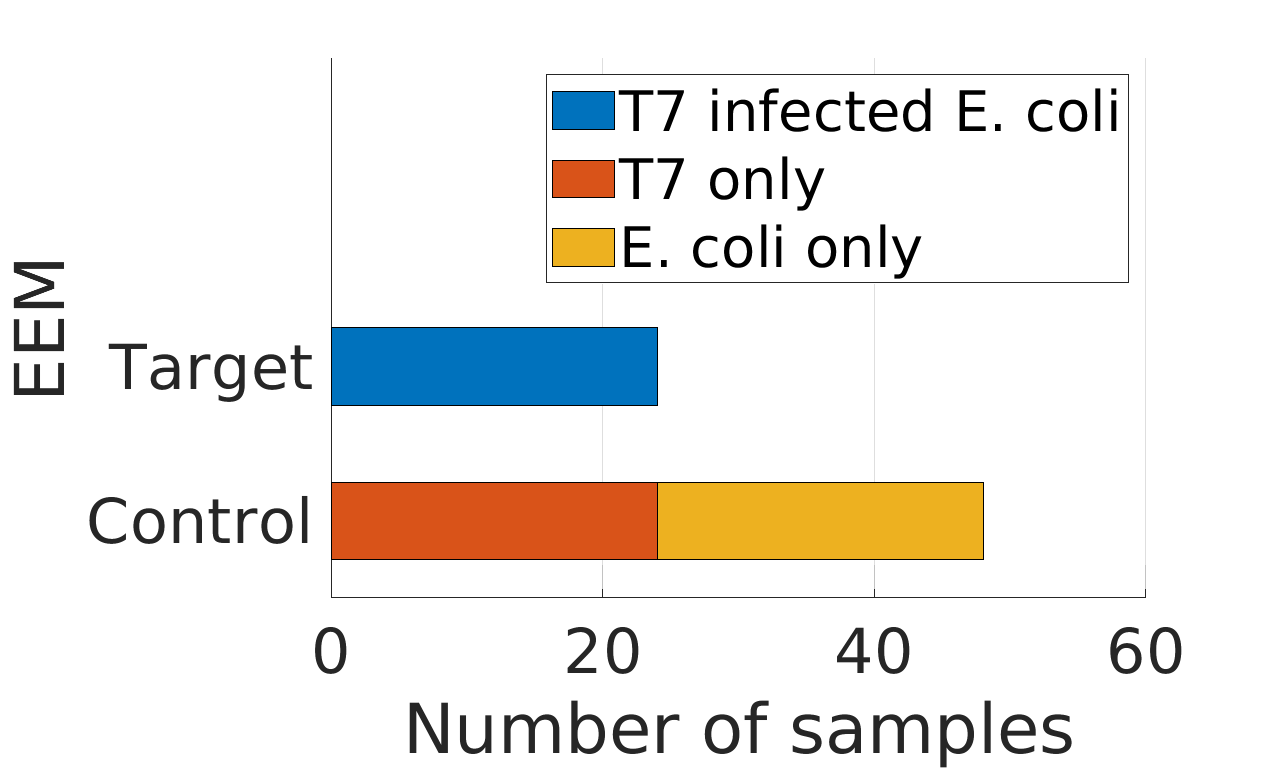
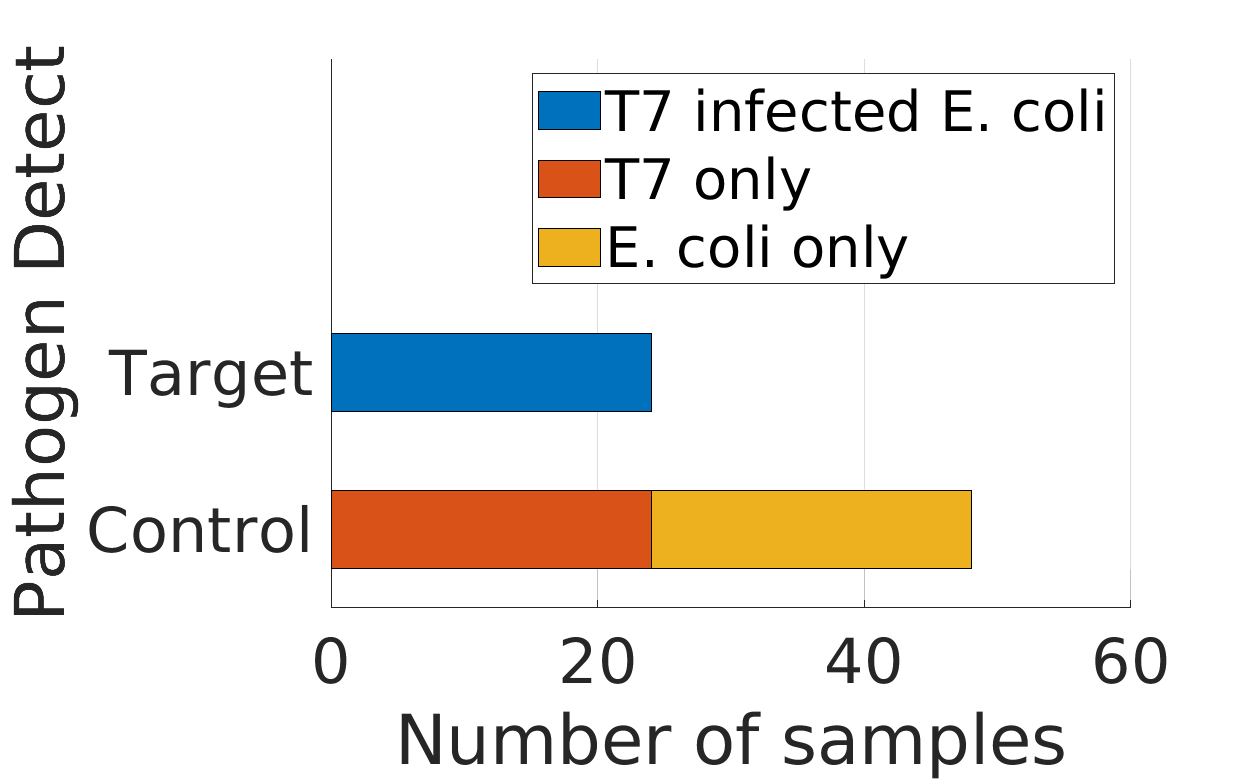
paper writing

diff --git a/Matlab/dataset_analysis_eem.m b/Matlab/dataset_analysis_eem.m
@@ -40,7 +40,7 @@ barh([1], [count(3)], 0.5)
 barh([0], [count(1);count(2)], 0.5, 'stacked')
 set(gca, 'xgrid', 'on', 'fontsize', 30)
 xlabel('Number of samples')
-ylabel('EEM')
+ylabel('Pathogen Detect')
 legend({'T7 infected E. coli', 'T7 only', 'E. coli only'})
 xlim([0, 60])
 ylim([-0.5, 3])
@@ -70,8 +70,8 @@ for i = 1:numel(X)
     plot_matrix = abs(plot_matrix);
     h = heatmap(plot_matrix);
     grid off
-    xlabel('EX (Hz)')
-    ylabel('EM (Hz)')
+    xlabel('Excitation Wavelength (nm)')
+    ylabel('Emission Wavelength (nm)')
     
     xticks = unique(em_data);
     customxlabels = string(xticks);

diff --git a/Matlab/k_mean_for_ssl_plasma.m b/Matlab/k_mean_for_ssl_plasma.m
@@ -35,10 +35,11 @@ confuse_matrix = confuse_matrix * 100;
 figure(1), clf
 set(gcf, 'position', [500, 500, 800, 600])
 h = heatmap(confuse_matrix);
+% h.Fontsize = 30;
 xlabel('Predicted Class')
 ylabel('Actual Class')
-set(gca, 'fontsize', 24)
+set(gca, 'fontsize', 30)
 caxis([0, 100]);
-title('Plasma')
+title('Plasma Dosage')
 saveas(gcf, 'Image/k_mean_plasma.png')
 

diff --git a/Matlab/k_mean_for_ssl_eem.m b/Matlab/k_mean_for_ssl_eem.m
@@ -30,9 +30,9 @@ set(gcf, 'position', [500, 500, 800, 600])
 h = heatmap(confuse_matrix);
 xlabel('Predicted Class')
 ylabel('Actual Class')
-set(gca, 'fontsize', 24)
+set(gca, 'fontsize', 30)
 caxis([0, 100]);
-title('EEM')
+title('Pathogen Detection')
 saveas(gcf, 'Image/k_mean_eem.png')
 
 
